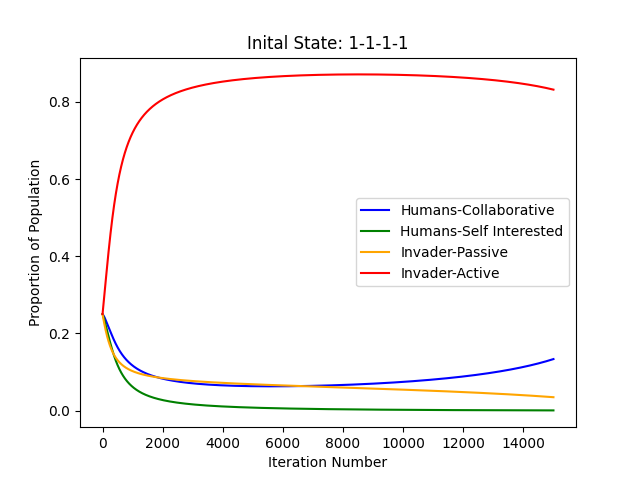
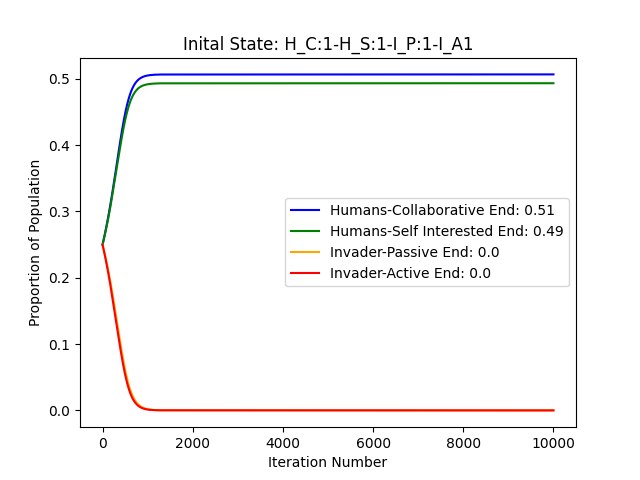
Update population game images

diff --git a/Population-Game.py b/Population-Game.py
@@ -23,12 +23,12 @@ COST = 15 # Cost of Self Interest
 SYNERGY = 1.5 # Synergy Factor
 
 # Invader Focused Variables
-DAMAGE = 15  # Damage from Invader
-ATTACK = 6 # Cost of Attacking from Invader
-BLOCK = 7 # Blocked Damage
+DAMAGE = 5  # Damage from Invader
+ATTACK = 10 # Cost of Attacking from Invader
+BLOCK = 4 # Blocked Damage
 
 # Simulation Settings 
-NUM_ITERATIONS = 15_000
+NUM_ITERATIONS = 10_000
 DT = .001
 
 
@@ -40,34 +40,24 @@ CASES = [
 "invader_active":1
 }, 
 {"human_collab": 1,
-"human_self_interested":2,
+"human_self_interested":10,
 "invader_passive":1,
 "invader_active":1
 }, 
 {"human_collab": 1,
-"human_self_interested":3,
+"human_self_interested":100,
 "invader_passive":1,
 "invader_active":1
-}, 
-{"human_collab": 2,
-"human_self_interested":3,
-"invader_passive":1,
-"invader_active":1
-}, 
-{"human_collab": 5,
-"human_self_interested":2,
-"invader_passive":46,
-"invader_active":9
-}, 
-{"human_collab": 9,
-"human_self_interested":7,
-"invader_passive":6,
-"invader_active":5
 }, 
 {"human_collab": 10,
-"human_self_interested":12,
-"invader_passive":79,
-"invader_active":100
+"human_self_interested":1,
+"invader_passive":1,
+"invader_active":1
+}, 
+{"human_collab": 100,
+"human_self_interested":1,
+"invader_passive":1,
+"invader_active":1
 }, 
 ] 
 
@@ -142,12 +132,12 @@ def main():
        game.print_gamestate()
 
        # Population Proportion Plot
-       plt.plot(population_df['iteration'], population_df['human_collab'], label = 'Humans-Collaborative', color = 'blue')
-       plt.plot(population_df['iteration'], population_df['human_self'], label = 'Humans-Self Interested', color = 'green')
-       plt.plot(population_df['iteration'], population_df['invader_passive'], label = 'Invader-Passive', color = 'orange')
-       plt.plot(population_df['iteration'], population_df['invader_active'], label = 'Invader-Active', color = 'red')
+       plt.plot(population_df['iteration'], population_df['human_collab'], label = f"Humans-Collaborative End: {round(population_df['human_collab'].iloc[0], 2)}", color = 'blue')
+       plt.plot(population_df['iteration'], population_df['human_self'], label = f"Humans-Self Interested End: {round(population_df['human_self'].iloc[0], 2)}", color = 'green')
+       plt.plot(population_df['iteration'], population_df['invader_passive'], label = f"Invader-Passive End: {round(population_df['invader_passive'].iloc[0], 2)}", color = 'orange')
+       plt.plot(population_df['iteration'], population_df['invader_active'], label = f"Invader-Active End: {round(population_df['invader_active'].iloc[0], 2)}", color = 'red')
        # Add title and labels
-       plt.title(f'Inital State: {human_collaborate}-{human_self_interested}-{invader_passive}-{invader_active}')
+       plt.title(f'Inital State: H_C:{human_collaborate}-H_S:{human_self_interested}-I_P:{invader_passive}-I_A{invader_active}')
        plt.xlabel('Iteration Number')
        plt.ylabel(f'Proportion of Population')
        plt.legend()

diff --git a/Game-Matrix-Test.py b/Game-Matrix-Test.py
@@ -10,9 +10,9 @@ COST = 15 # Cost of Self Interest
 SYNERGY = 1.5 # Synergy Factor
 
 # Invader Focused Variables
-DAMAGE = 15  # Damage from Invader
-ATTACK = 6 # Cost of Attacking from Invader
-BLOCK = 7 # Blocked Damage
+DAMAGE = 5  # Damage from Invader
+ATTACK = 10 # Cost of Attacking from Invader
+BLOCK = 4 # Blocked Damage
 
 game = InvaderGamePayoffMatrix(VALUE, COST, SYNERGY, DAMAGE, ATTACK, BLOCK)
 game.update_game()
